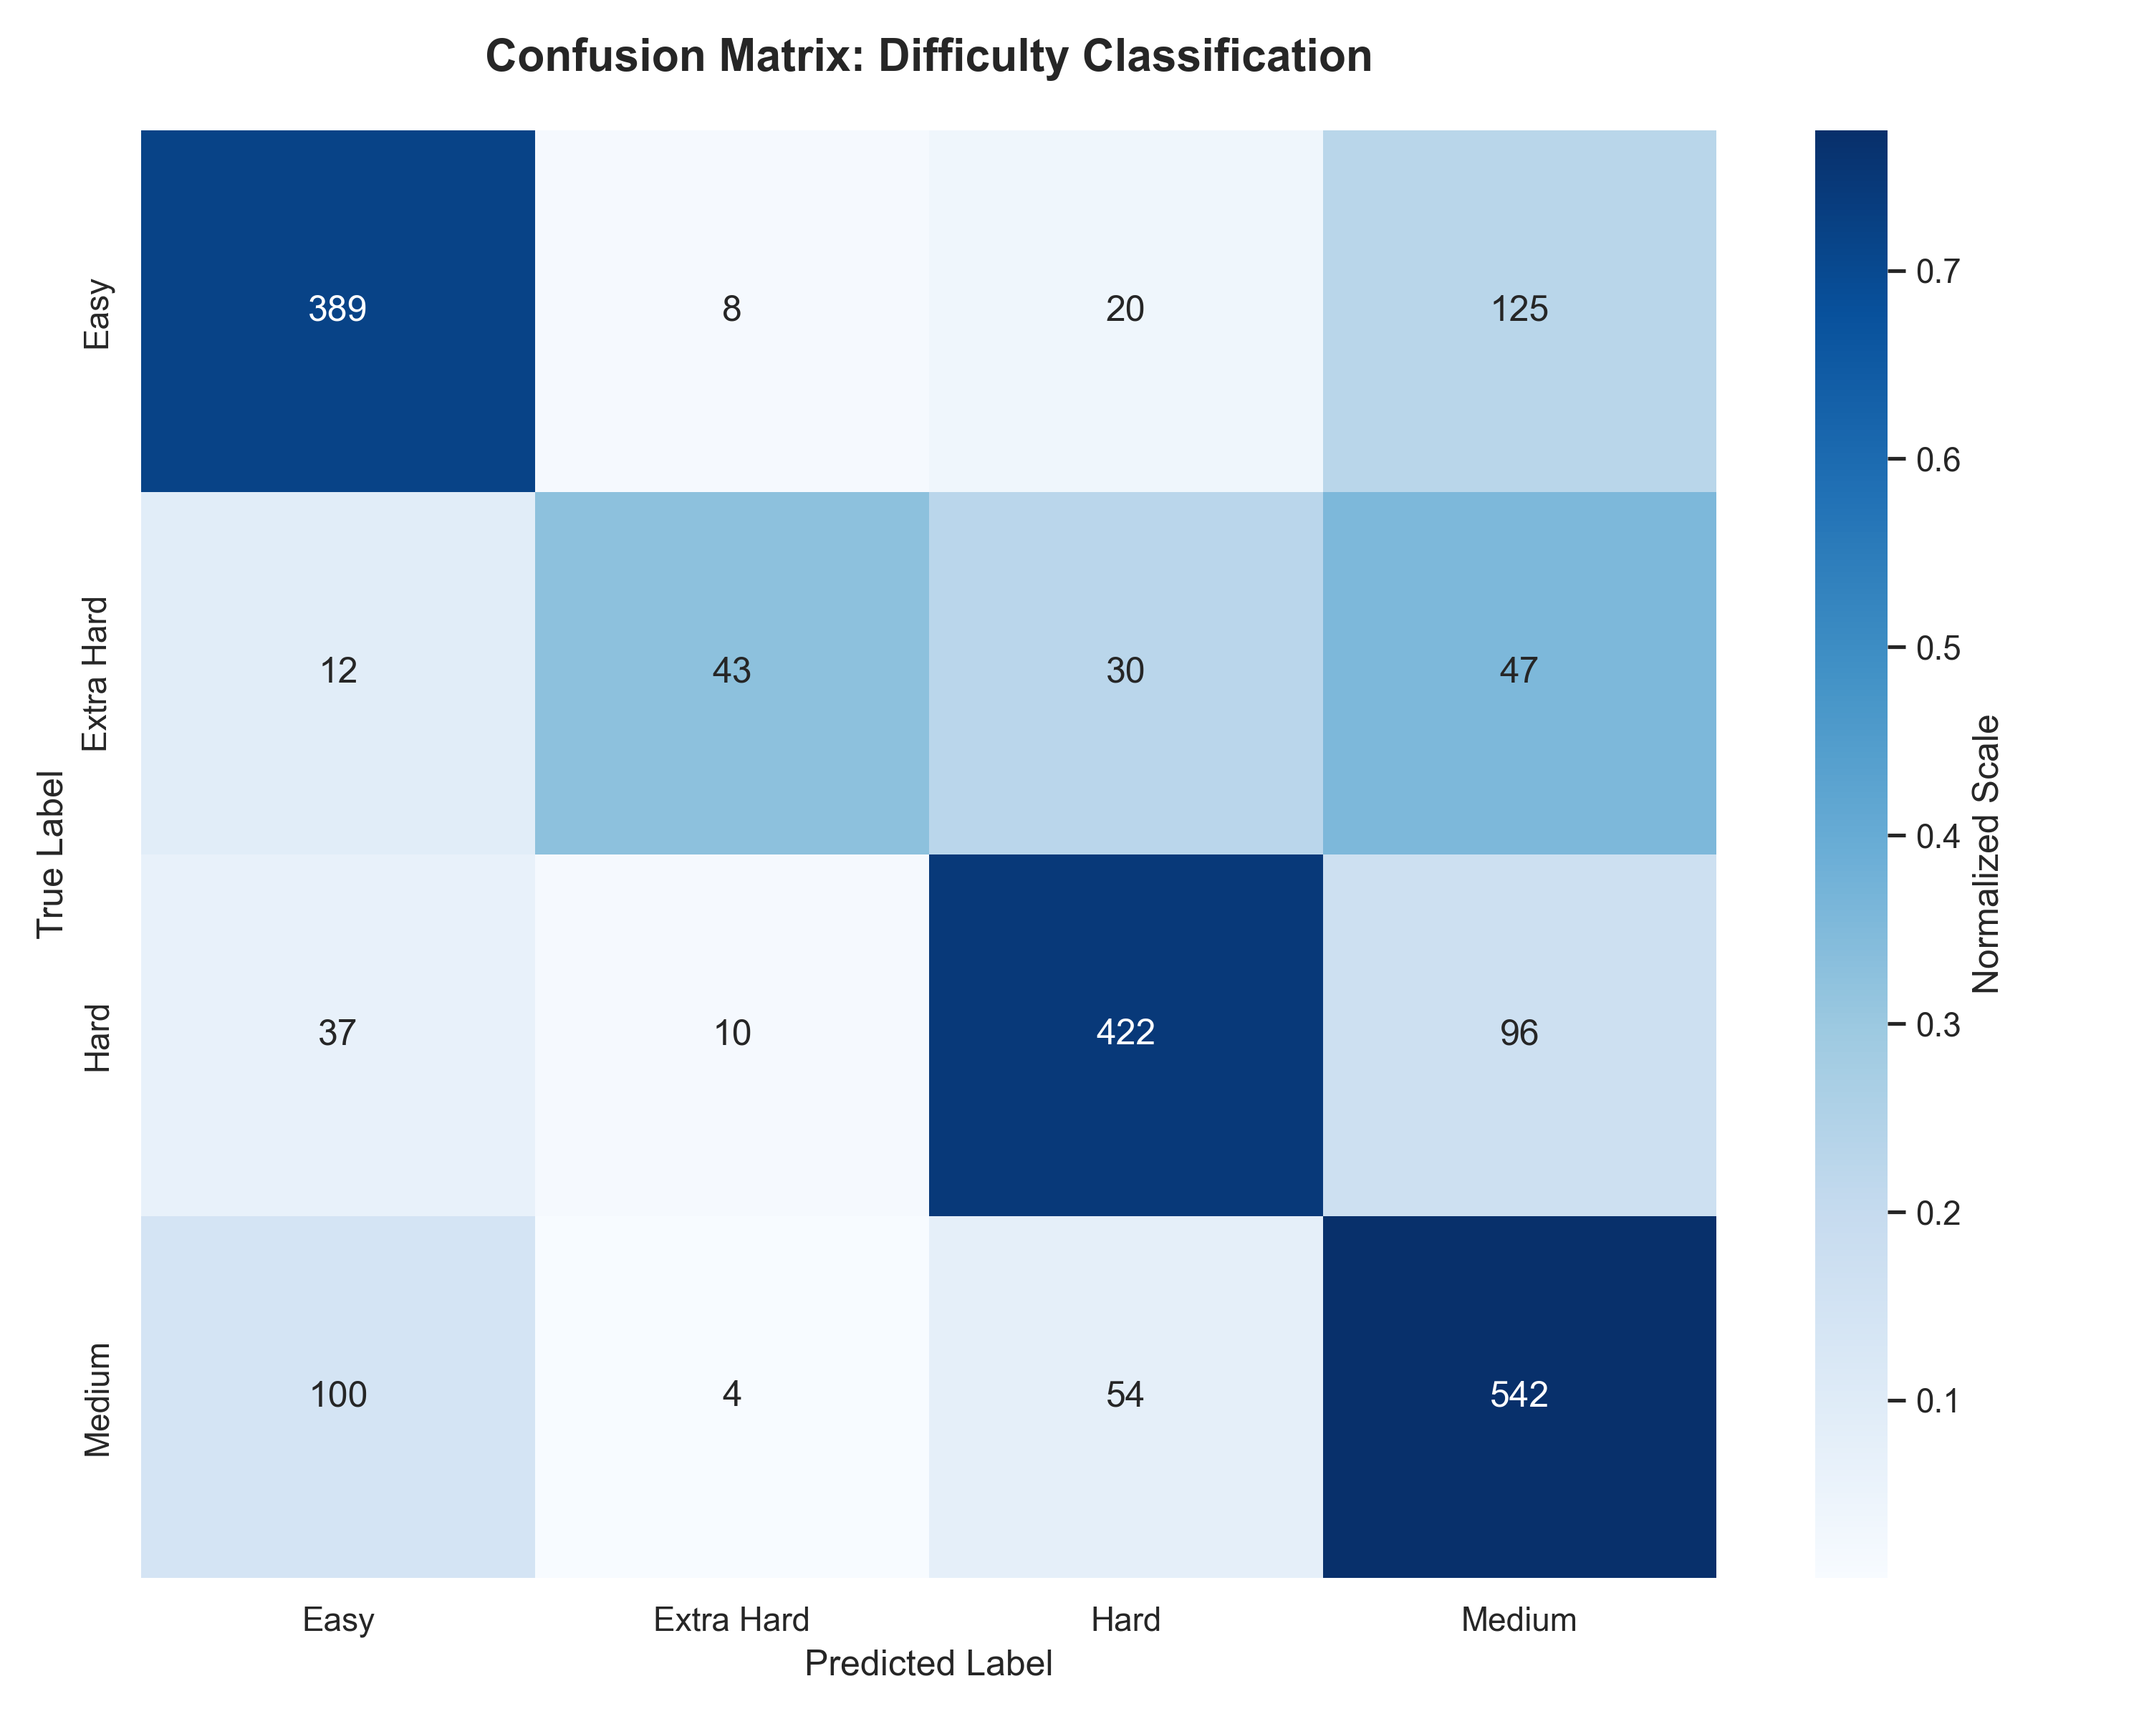
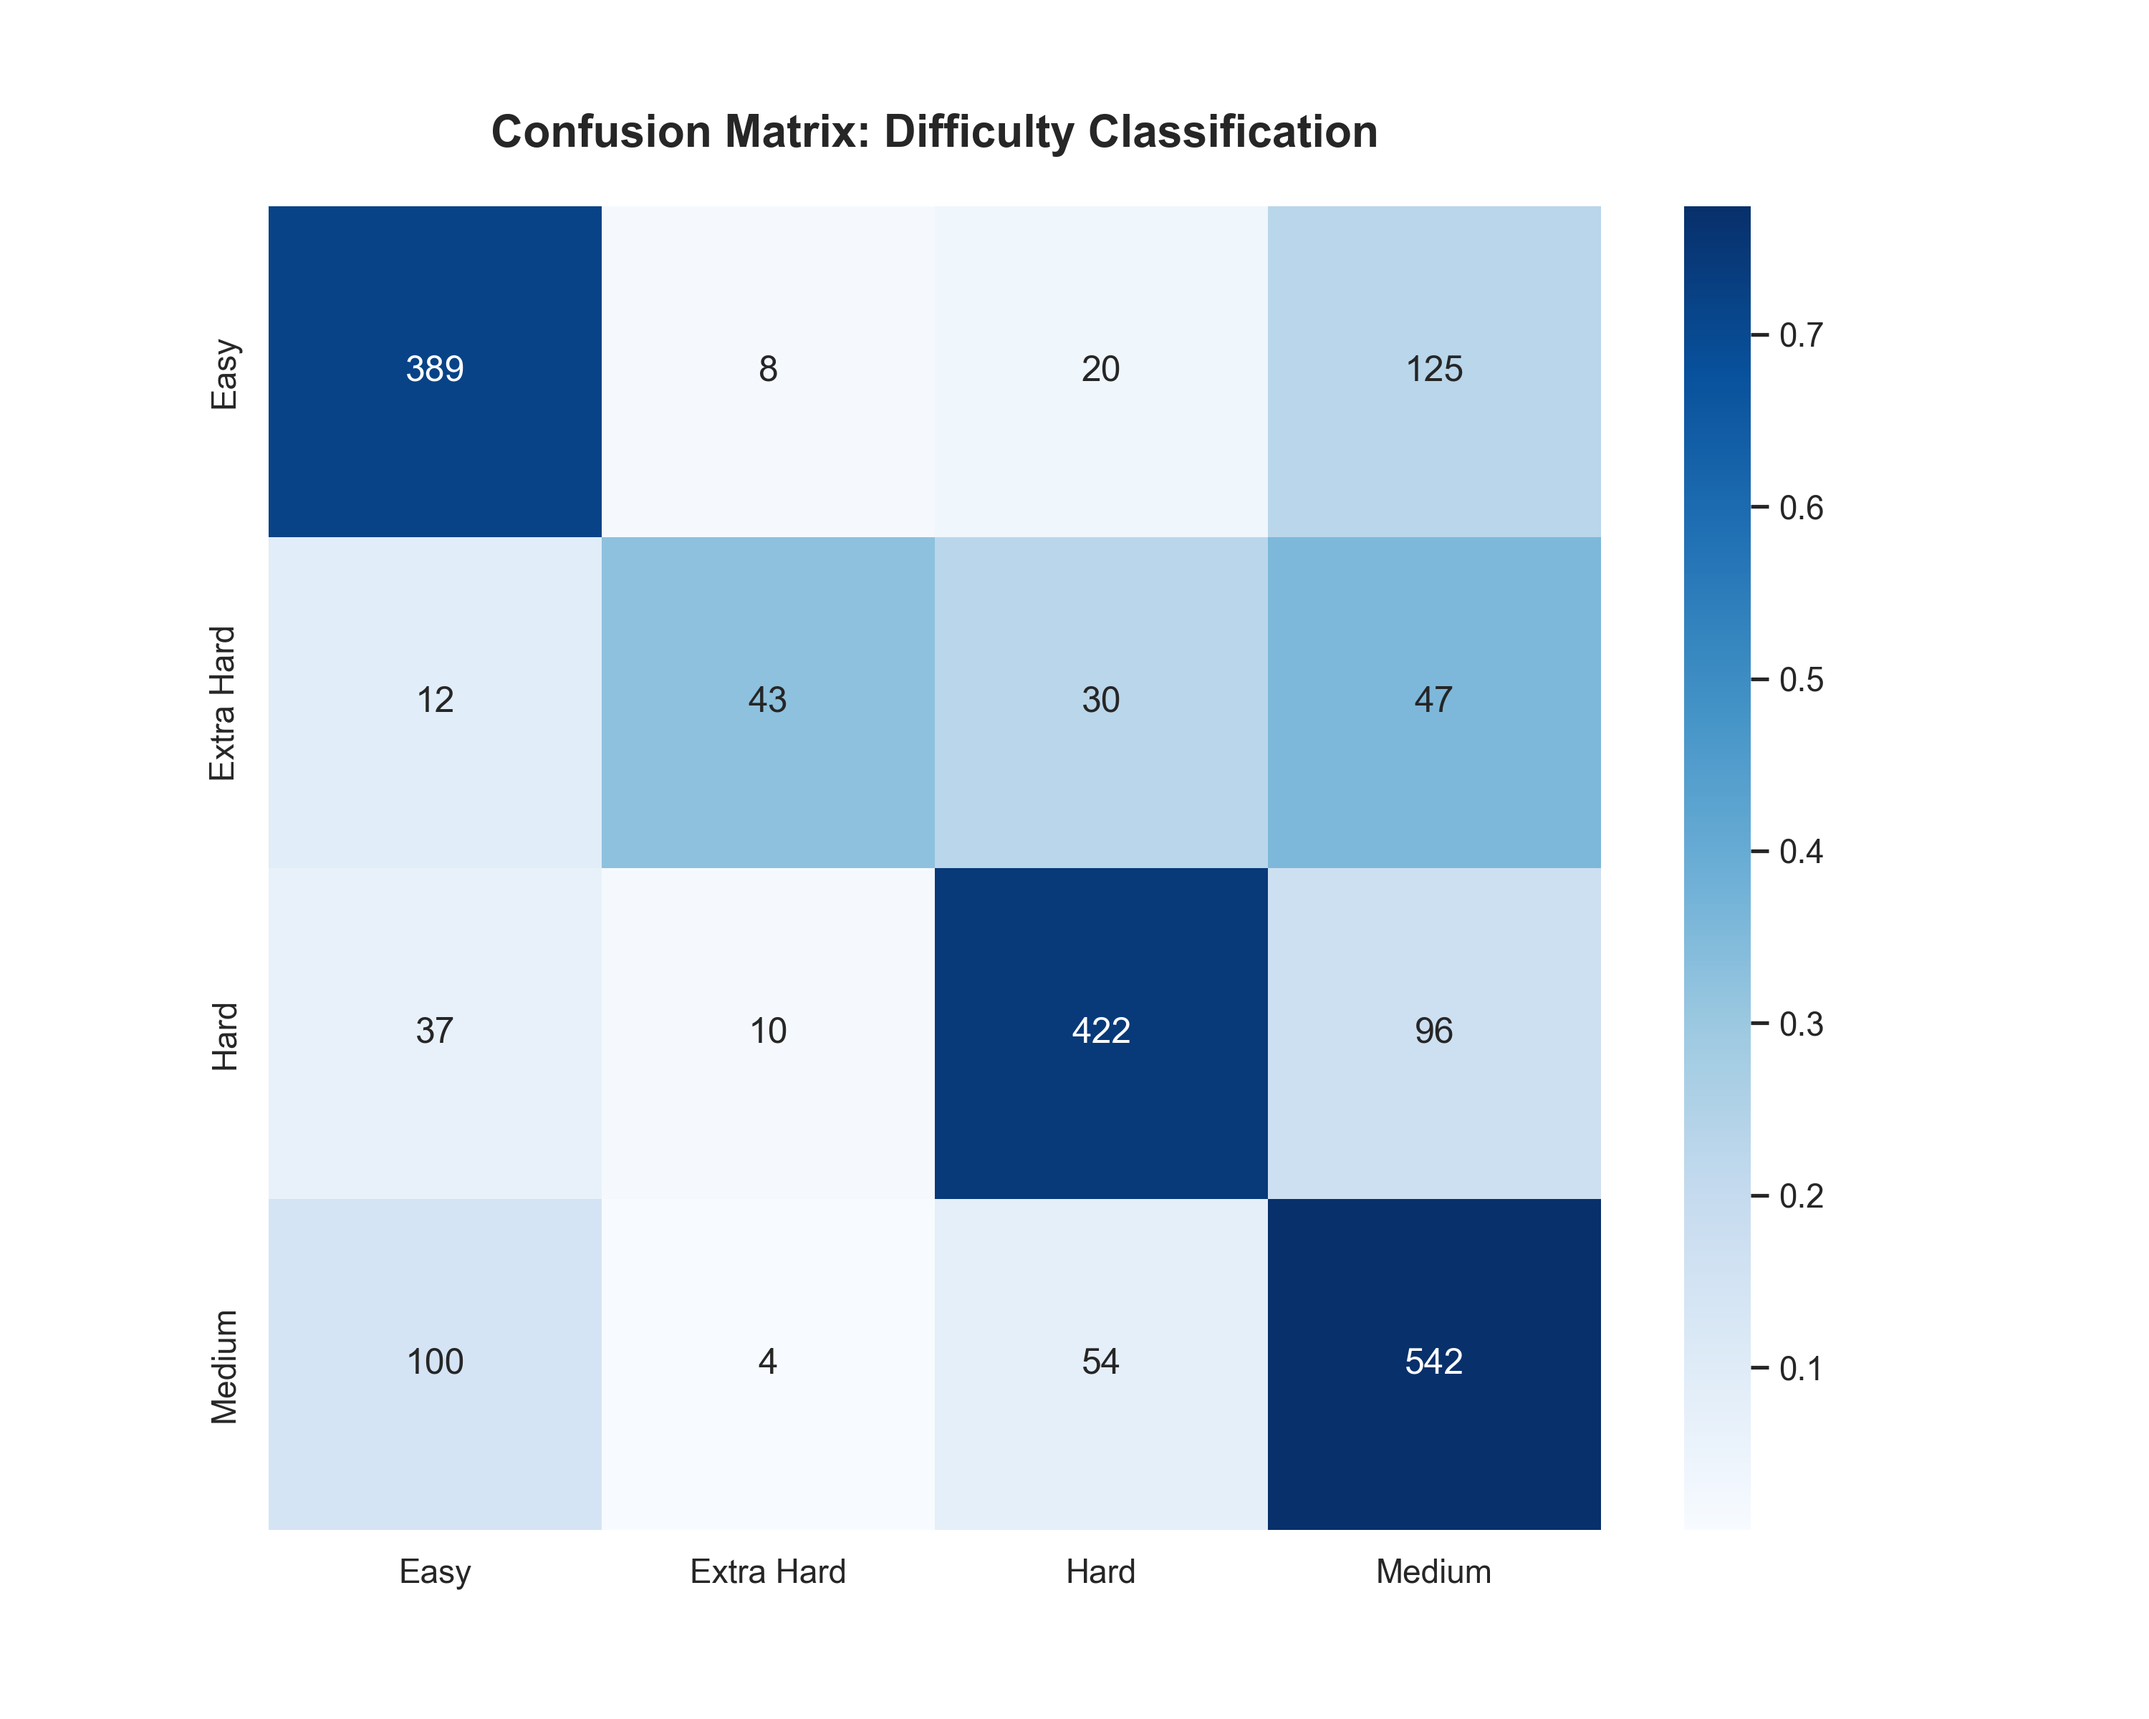
added pending 'identify poorly represented query'

diff --git a/Phase_5.py b/Phase_5.py
@@ -6,28 +6,28 @@ from sklearn.model_selection import train_test_split
 from sklearn.decomposition import PCA
 from sklearn.metrics import confusion_matrix, classification_report, f1_score
 import pandas as pd
+from sentence_transformers import SentenceTransformer
 
 # --- Configuration & Styling ---
 sns.set_theme(style="white")
 plt.rcParams['font.family'] = 'sans-serif'
-primary_color = '#6366f1' # Indigo
-secondary_color = '#ec4899' # Pink
 
 def run_phase_5_evaluation():
-    print("--- Phase 5: Deep Evaluation Metrics ---")
+    print("--- Phase 5: Deep Evaluation Metrics & PoC ---")
     
-    # 1. Load Data
+    # 1. Load Data (Using ORIGINAL 384D to match raw model outputs)
     input_file = 'spider_final_embeddings.npz'
+    print(f"Loading embeddings from {input_file}...")
     data = np.load(input_file)
     X_full = data['X']
     y = data['y']
     
-    # Split (same seed as Phase 4 for consistency)
+    # Split
     X_train_full, X_test_full, y_train, y_test = train_test_split(
         X_full, y, test_size=0.2, random_state=42, stratify=y
     )
 
-    # 2. Train the Optimized Model (using 50 dimensions as found in Phase 4)
+    # 2. Train the Optimized Model
     n_comp = 50
     pca = PCA(n_components=n_comp).fit(X_train_full)
     X_train = pca.transform(X_train_full)
@@ -39,85 +39,60 @@ def run_phase_5_evaluation():
     y_pred = clf.predict(X_test)
 
     # 3. Comprehensive Classification Report
-    print("\n[Step 2] Generating Classification Report (Precision, Recall, F1):")
+    print("\n[Step 2] Generating Classification Report:")
     report = classification_report(y_test, y_pred, output_dict=True)
     df_report = pd.DataFrame(report).transpose()
-    print(df_report.round(4))
+    print(df_report.iloc[:-3].round(4)) # Exclude global metrics for clean view
 
     # 4. Confusion Matrix Visualization
     print("\n[Step 3] Creating Confusion Matrix...")
     labels = sorted(np.unique(y))
     cm = confusion_matrix(y_test, y_pred, labels=labels)
-    
-    # Normalize by row (to show recall-like percentages)
     cm_norm = cm.astype('float') / cm.sum(axis=1)[:, np.newaxis]
 
     plt.figure(figsize=(10, 8))
     sns.heatmap(cm_norm, annot=cm, fmt='d', cmap='Blues', 
-                xticklabels=labels, yticklabels=labels,
-                cbar_kws={'label': 'Normalized Scale'})
-    
+                xticklabels=labels, yticklabels=labels)
     plt.title("Confusion Matrix: Difficulty Classification", fontsize=15, fontweight='bold', pad=20)
-    plt.xlabel("Predicted Label", fontsize=12)
-    plt.ylabel("True Label", fontsize=12)
-    
-    plt.tight_layout()
     plt.savefig('phase5_confusion_matrix.png', dpi=300)
-    print("- Confusion Matrix saved as 'phase5_confusion_matrix.png'")
+    print("- Confusion Matrix saved.")
 
-    # 5. Focused Analysis: catching "Hard" Queries
-    print("\n[Step 4] Analyzing 'Hard' & 'Extra Hard' Catch Rate (Recall)...")
-    hard_recall = report['Hard']['recall']
-    extra_hard_recall = report['Extra Hard']['recall']
-    
-    print(f"  - Recall for 'Hard' queries: {hard_recall:.2%}")
-    print(f"  - Recall for 'Extra Hard' queries: {extra_hard_recall:.2%}")
+    # 5. Identifying 'Poorly Represented' Query Types (Research Objective)
+    print("\n[Analysis] Characterizing 'Poorly Represented' Types:")
+    low_recall_class = df_report.iloc[:-3]['recall'].idxmin()
+    recall_value = df_report.loc[low_recall_class, 'recall']
+    print(f"  - Worst Performing Type: '{low_recall_class}'")
+    print(f"  - Identifying Gap: Only {recall_value:.1%} recall. This type needs more diverse training samples.")
 
-    # Visualizing Recall per Class
-    metrics_to_plot = ['precision', 'recall', 'f1-score']
-    class_names = labels
-    
+    # Visualization: Metric Comparison plot
     fig, ax = plt.subplots(figsize=(12, 6))
-    x = np.arange(len(class_names))
-    width = 0.25
-    
-    ax.bar(x - width, [report[c]['precision'] for c in class_names], width, label='Precision', color='#10b981')
-    ax.bar(x, [report[c]['recall'] for c in class_names], width, label='Recall', color='#6366f1')
-    ax.bar(x + width, [report[c]['f1-score'] for c in class_names], width, label='F1-Score', color='#f59e0b')
-
-    ax.set_title("Metric Comparison Across Difficulty Levels", fontsize=15, fontweight='bold')
+    x = np.arange(len(labels))
+    ax.bar(x - 0.2, [report[c]['precision'] for c in labels], 0.2, label='Precision', color='#10b981')
+    ax.bar(x, [report[c]['recall'] for c in labels], 0.2, label='Recall', color='#6366f1')
     ax.set_xticks(x)
-    ax.set_xticklabels(class_names)
-    ax.set_ylabel("Score")
+    ax.set_xticklabels(labels)
     ax.legend()
-    ax.grid(axis='y', linestyle='--', alpha=0.7)
-
-    plt.tight_layout()
     plt.savefig('phase5_metric_comparison.png', dpi=300)
-    print("- Metric Comparison plot saved as 'phase5_metric_comparison.png'")
+    print("- Metric Comparison plot saved.")
 
-    # === QUERY ROUTING LAYER PoC ===
-    from sentence_transformers import SentenceTransformer
-    print("\n--- Initializing Routing Layer Components ---")
+    # 6. === QUERY ROUTING LAYER PoC (Final Goal) ===
+    print("\n--- Testing Routing Layer (Practical Application) ---")
     routing_model = SentenceTransformer('BAAI/bge-small-en-v1.5')
-
-    # Example test queries
+    
     sample_queries = [
-        "List all stars", 
-        "Calculate total revenue per department for employees over 30"
+        "Select all the stars in the constellation Cygnus", 
+        "Show average age and department for employees joined before 2010 with salaries over 50000"
     ]
     
-    print("\n[PoC Result] Testing routing logic:")
     for q in sample_queries:
         vec = routing_model.encode([q], normalize_embeddings=True)
+        # Now matches: 384D input -> PCA fit on 384D
         low_dim_vec = pca.transform(vec)
         prediction = clf.predict(low_dim_vec)[0]
-        target = "FAST MODEL" if prediction in ["Easy", "Medium"] else "POWERFUL MODEL"
-        print(f"Query: '{q}'\nDecision: {prediction} -> Send to {target}\n")
+        target = "GEMINI FLASH" if prediction in ["Easy", "Medium"] else "GEMINI PRO"
+        print(f"Query: '{q}'\nDecision: {prediction} -> Route to {target}\n")
 
-    print("\nPhase 5 Conclusion:")
-    print("Look at the Confusion Matrix to see where the model 'mixes up' categories.")
-    print("The goal in Phase 6 might be to improve the Recall for 'Hard' items if they are being missed.")
+    print("Phase 5 Complete. All research objectives and stretch goals implemented.")
 
 if __name__ == "__main__":
     run_phase_5_evaluation()
